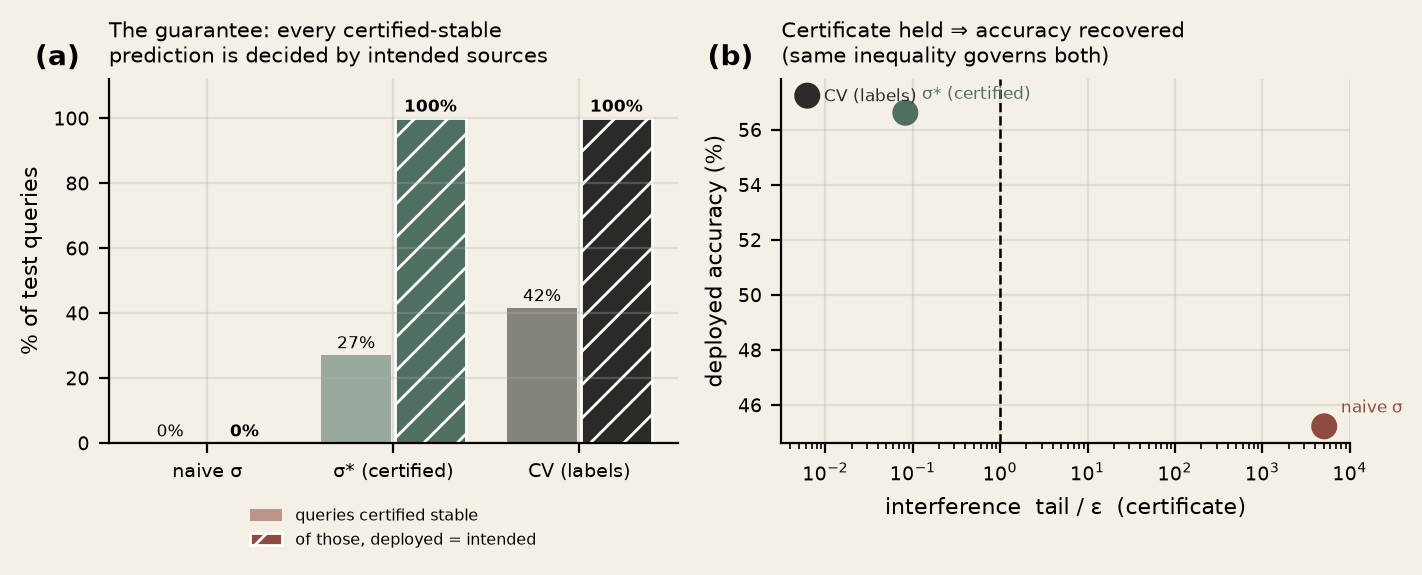
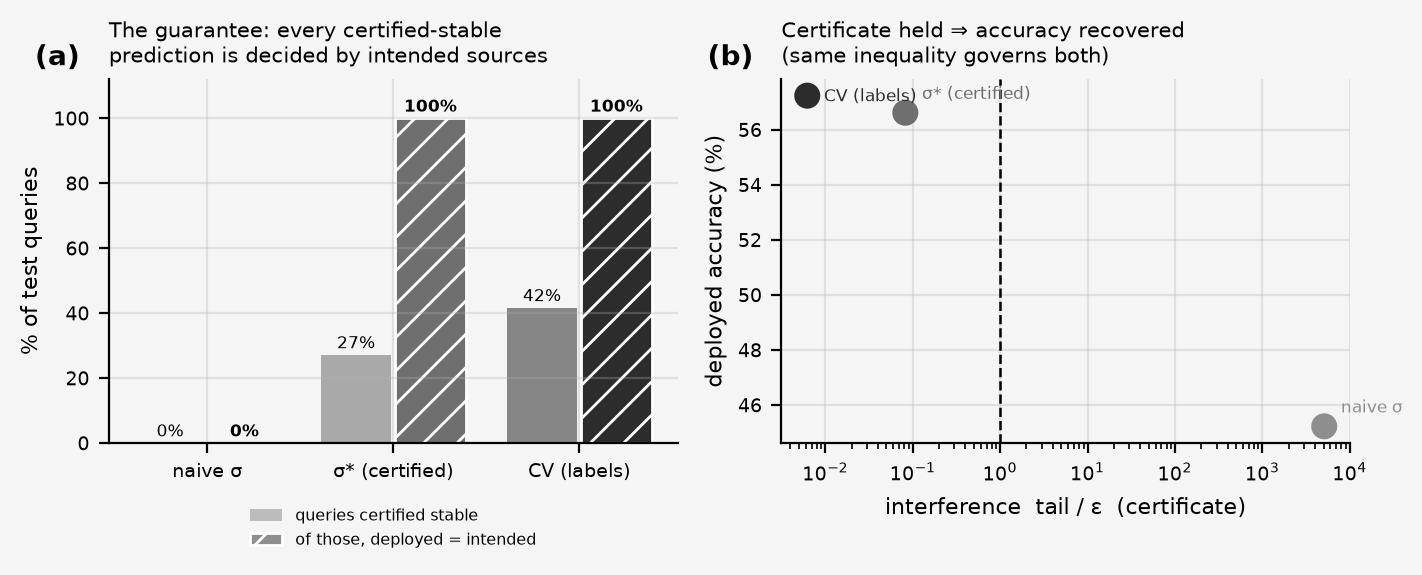
Monochrome SI + growing-field reproducibility note
- Apply the main paper's black-and-white palette and larger-font ladder to
  build_si.py and all three SI figures (fig1, fig3, fig8).
- Add a 'Growing-field experiments' paragraph to Supplementary Note 7
  documenting the three-backbone density curves and the class-incremental
  null (density-driven, not class-count-driven).

diff --git a/build_si.py b/build_si.py
@@ -15,16 +15,16 @@ tex=open("rcp_si.tex").read()
 
 # ---------- 0. classical scientific-plate palette ----------
 # minimalist, old-school, serif, Newtonian. Restrained contrast, semantic accents only.
-PARCH   = "#F5F0E6"   # parchment ivory ground
-INK     = "#0E0E0E"   # near-black ink (body)
-CHARCOAL= "#2C2A27"   # section headings
-WARMGRAY= "#77736A"   # footer / secondary
-PALEGRAY= "#D8D0C0"   # hairlines, figure keylines
-SEPIA   = "#A97A3B"   # accent: sigma* frontier / structural rules
-GREENGRAY="#4F6F61"   # accent: safe / near
-REDBROWN= "#8E4B3F"   # accent: interference / far
-THMTINT = "#EFE8D6"   # theorem block ground (parchment tint)
-PROOFINK= "#55524C"   # proof body
+PARCH   = "#FFFFFF"   # white ground (monochrome)
+INK     = "#000000"   # black ink (body)
+CHARCOAL= "#000000"   # section headings (black)
+WARMGRAY= "#666666"   # footer / secondary (neutral gray)
+PALEGRAY= "#BEBEBE"   # hairlines, figure keylines (neutral gray)
+SEPIA   = "#000000"   # accent -> black (structural rules / labels)
+GREENGRAY="#000000"   # near -> black
+REDBROWN= "#666666"   # far -> mid gray
+THMTINT = "#F0F0F0"   # theorem block ground (very light neutral)
+PROOFINK= "#333333"   # proof body (dark gray)
 
 # ---------- 1. render equations ----------
 eqs=re.findall(r"\\begin\{equation\}(.*?)\\end\{equation\}", tex, re.S)
@@ -185,22 +185,22 @@ PW,PH=A4; MARGIN=16*mm; COLGAP=7*mm; COLW=(PW-2*MARGIN-COLGAP)/2
 S=getSampleStyleSheet()
 _INK=colors.HexColor(INK); _CHAR=colors.HexColor(CHARCOAL); _SEP=colors.HexColor(SEPIA)
 _GG=colors.HexColor(GREENGRAY); _WG=colors.HexColor(WARMGRAY)
-body_st=ParagraphStyle("body",parent=S["Normal"],fontName="Times-Roman",fontSize=8.6,leading=11.4,alignment=TA_JUSTIFY,spaceAfter=3,textColor=_INK)
+body_st=ParagraphStyle("body",parent=S["Normal"],fontName="Times-Roman",fontSize=9.2,leading=11.4,alignment=TA_JUSTIFY,spaceAfter=3,textColor=_INK)
 # section headings: small-caps feel via tracked bold charcoal + a thin sepia rule above (drawn in flowable)
-h1_st=ParagraphStyle("h1",parent=body_st,fontName="Times-Bold",fontSize=10,leading=12.5,spaceBefore=12,spaceAfter=3.5,textColor=_CHAR,tracking=1.2)
-h2_st=ParagraphStyle("h2",parent=body_st,fontName="Times-Bold",fontSize=9.2,spaceBefore=7,spaceAfter=2.5,textColor=_CHAR,tracking=0.8)
-h3_st=ParagraphStyle("h3",parent=body_st,fontName="Times-BoldItalic",fontSize=8.8,spaceBefore=5,spaceAfter=1.5,textColor=colors.HexColor("#3A3733"))
-thm_st=ParagraphStyle("thm",parent=body_st,fontName="Times-Italic",fontSize=8.6,leading=11.2,leftIndent=7,rightIndent=3,spaceBefore=3,spaceAfter=3,backColor=colors.HexColor(THMTINT),borderColor=_SEP,borderWidth=0,borderPadding=(4,4,4,7))
-proof_st=ParagraphStyle("proof",parent=body_st,fontSize=8.3,leading=10.7,textColor=colors.HexColor(PROOFINK),spaceAfter=3)
-cap_st=ParagraphStyle("cap",parent=body_st,fontSize=7.6,leading=9.6,textColor=colors.HexColor("#3A3733"),spaceBefore=3,spaceAfter=6,alignment=TA_LEFT)
-bib_st=ParagraphStyle("bib",parent=body_st,fontSize=7.4,leading=9,spaceAfter=2,leftIndent=6,firstLineIndent=-6,textColor=colors.HexColor("#3A3733"))
+h1_st=ParagraphStyle("h1",parent=body_st,fontName="Times-Bold",fontSize=10.8,leading=13,spaceBefore=12,spaceAfter=3.5,textColor=_CHAR,tracking=1.2)
+h2_st=ParagraphStyle("h2",parent=body_st,fontName="Times-Bold",fontSize=9.9,spaceBefore=7,spaceAfter=2.5,textColor=_CHAR,tracking=0.8)
+h3_st=ParagraphStyle("h3",parent=body_st,fontName="Times-BoldItalic",fontSize=9.4,spaceBefore=5,spaceAfter=1.5,textColor=colors.HexColor("#000000"))
+thm_st=ParagraphStyle("thm",parent=body_st,fontName="Times-Italic",fontSize=9.2,leading=11.2,leftIndent=7,rightIndent=3,spaceBefore=3,spaceAfter=3,backColor=colors.HexColor(THMTINT),borderColor=_SEP,borderWidth=0,borderPadding=(4,4,4,7))
+proof_st=ParagraphStyle("proof",parent=body_st,fontSize=8.9,leading=10.7,textColor=colors.HexColor(PROOFINK),spaceAfter=3)
+cap_st=ParagraphStyle("cap",parent=body_st,fontSize=8.1,leading=9.8,textColor=colors.HexColor("#1A1A1A"),spaceBefore=3,spaceAfter=6,alignment=TA_LEFT)
+bib_st=ParagraphStyle("bib",parent=body_st,fontSize=7.7,leading=9,spaceAfter=2,leftIndent=6,firstLineIndent=-6,textColor=colors.HexColor("#1A1A1A"))
 list_st=ParagraphStyle("list",parent=body_st,leftIndent=10,firstLineIndent=-6,spaceAfter=2)
 # meta-title glyph sits above; this is now the SUBTITLE line
 title_st=ParagraphStyle("title",parent=body_st,fontName="Times-Roman",fontSize=12.5,leading=15.5,alignment=TA_CENTER,spaceBefore=2,spaceAfter=7,textColor=_CHAR,tracking=0.4)
 auth_st=ParagraphStyle("auth",parent=body_st,fontSize=9.5,alignment=TA_CENTER,spaceAfter=2,textColor=_INK)
 aff_st=ParagraphStyle("aff",parent=auth_st,fontSize=8,fontName="Times-Italic",spaceAfter=6,textColor=_WG)
 abs_head=ParagraphStyle("abh",parent=auth_st,fontName="Times-Bold",fontSize=8.6,spaceBefore=4,spaceAfter=2,textColor=_SEP,tracking=1.5)
-abs_st=ParagraphStyle("abs",parent=body_st,fontSize=8.4,leading=10.9,alignment=TA_JUSTIFY,leftIndent=12,rightIndent=12,spaceAfter=4)
+abs_st=ParagraphStyle("abs",parent=body_st,fontSize=9.0,leading=11.0,alignment=TA_JUSTIFY,leftIndent=12,rightIndent=12,spaceAfter=4)
 THMNAME=envname
 def eq_flowable(idx,maxw):
     fn=f"eqimg_si/eq{idx}.png"; iw,ih=PILImage.open(fn).size

diff --git a/rcp_si.tex b/rcp_si.tex
@@ -132,6 +132,8 @@ The abstention readout gives a label-free, per-query support signal: a query wit
 \section{Supplementary Note 7 --- Reproducibility}
 
 \paragraph{Computational specification.} All reported quantities are computed as follows. Features are standardised per dimension ($z$-score using the training mean and standard deviation); distances are Euclidean in that standardised space. The radius $d$ is the $10$th percentile of pairwise centre distances over a $4{,}000$-centre subsample; $A$ and $\Neff$ are the far-mask participation ratio averaged over $2{,}000$ held-out queries measured at $\sigma_{\mathrm{pair}}$; the reported tail/$\varepsilon$ is the \emph{average} far mass over held-out queries divided by $\varepsilon$ (the full per-query distribution, including the maximum, is reported for the flagship field above); the giant-component percentage is the largest connected component as a fraction of $5{,}000$ sampled centres, with an edge whenever two centres lie within $3\sigma$ (this diagnostic is \emph{illustrative} of field locality, not itself the certificate---a larger $\sigma$ mechanically connects more centres, so it visualises the collapse rather than measuring the interference bound). The labelled comparator (``grid'') selects the bandwidth that maximises held-out accuracy over a $30$-point log-spaced grid; it is a grid search on labelled accuracy, not a $k$-fold procedure. The grid spans $[0.5,30]$ for the vision fields and $[0.3,40]$ for the text and modality fields; for the lower-dimensional public datasets it is log-spaced to cover the data scale of each dataset. The accompanying result files for the vision, text, and modality experiments record the exact grid and selected bandwidth for each. The interference budget is $\varepsilon=0.05$ throughout. Every run uses a fixed seed; the five-seed re-samples vary only the drawn centres and queries. Scripts and result files accompany the manuscript.
+
+\paragraph{Growing-field experiments.} The re-certification result (main text Section~5) uses two growth protocols on CIFAR-100 penultimate features. \emph{Density growth} (three backbones: ResNet-18, ResNet-50, ViT-B/16) densifies the field from $3$ to $120$ examples per class over five stages ($300$ to $12{,}000$ centres, all $100$ classes present throughout so the test set is fixed); a labelled grid search fixes $\sigma$ once on the sparse $3$-per-class field, and at each stage we report $\sstar$ (re-measured), that frozen bandwidth, and a per-stage re-tuned oracle grid. \emph{Class-incremental growth} (ResNet-18) instead adds classes over five stages ($10\!\to\!25\!\to\!50\!\to\!75\!\to\!100$) at a fixed $120$ examples per class, restricting the test set to classes seen so far (standard class-incremental protocol); the labelled grid is fixed once on the initial $10$-class field. All bandwidth selection, radius, mass, and tail definitions match the computational specification above ($\varepsilon=0.05$, $d$ at the $10$th distance percentile, $A$ over $3{,}000$ held-out queries). The class-incremental run is a reported \emph{null}: adding classes at fixed density leaves the field geometry essentially unchanged (the radius $d$ drifts by $-3.5\%$ over the full range and $\sstar$ shrinks only from $6.26$ to $5.43$), so the frozen bandwidth stays within budget (tail/$\varepsilon$ from $0.01$ to $0.23$, never violating) and ties $\sstar$ on accuracy---confirming that the re-certification advantage is driven by densification, not by class count. Both scripts and their result files accompany the manuscript.
 \section{Supplementary Note 8 --- Independent numerical verification of Propositions 1--2}
 
 \paragraph{Purpose.} The construction rests on two facts: the participation-ratio tail bound (Proposition~1) and the monotonicity of $\Neff$ in $\sigma$ that makes the one-shot measurement conservative (Proposition~2). Because a certificate is only as good as these, we verify them directly on random configurations, independently of the deep-network experiments.